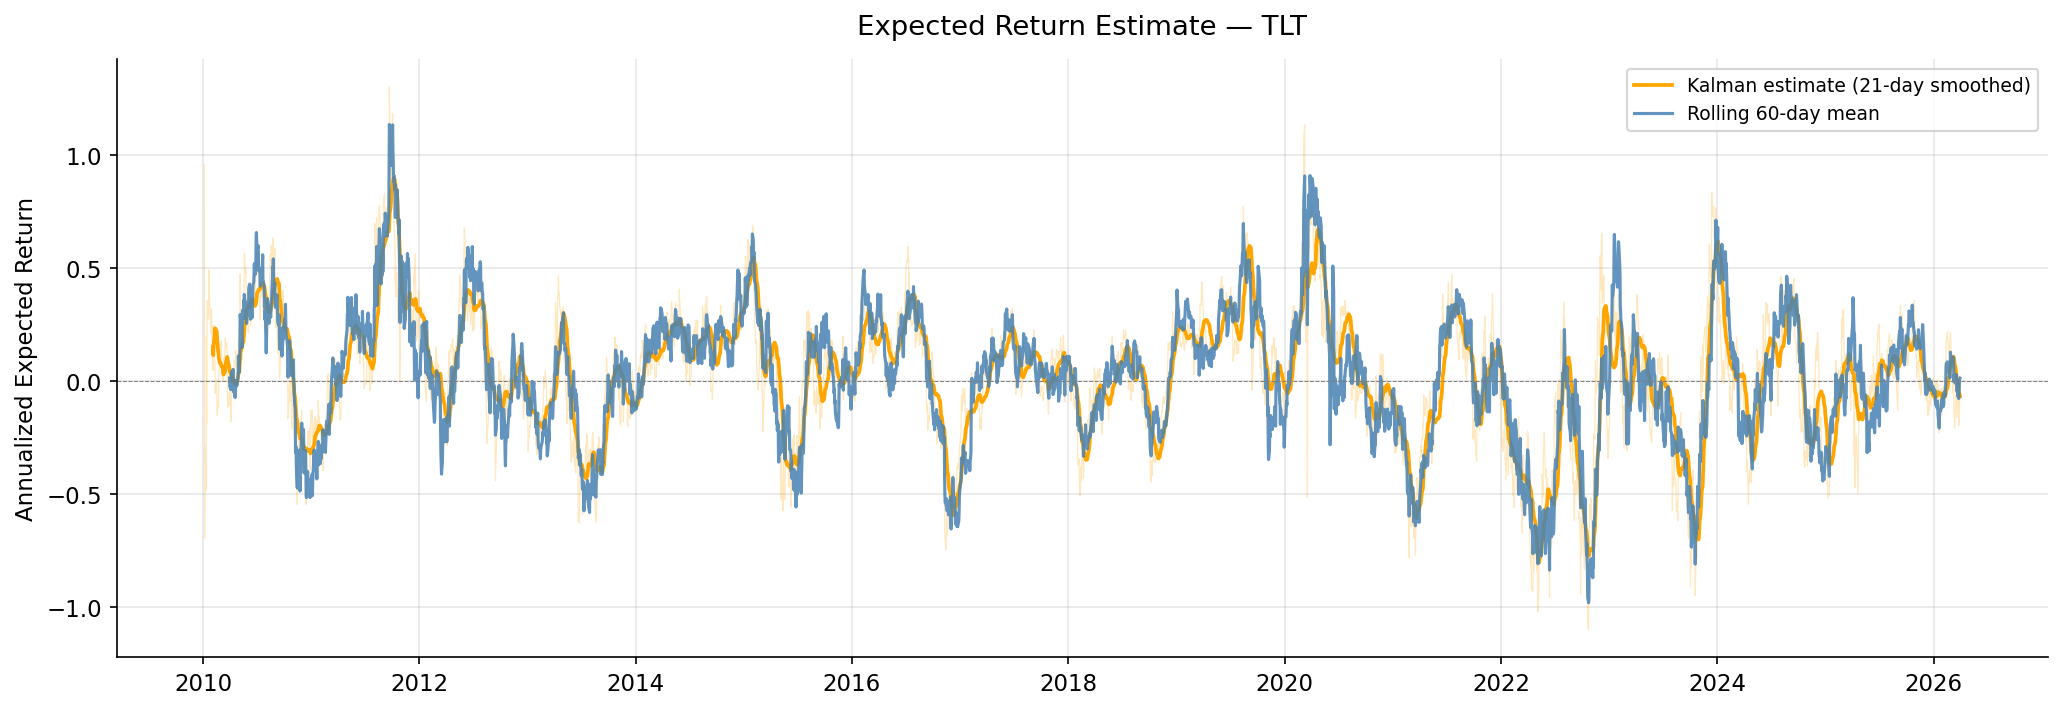
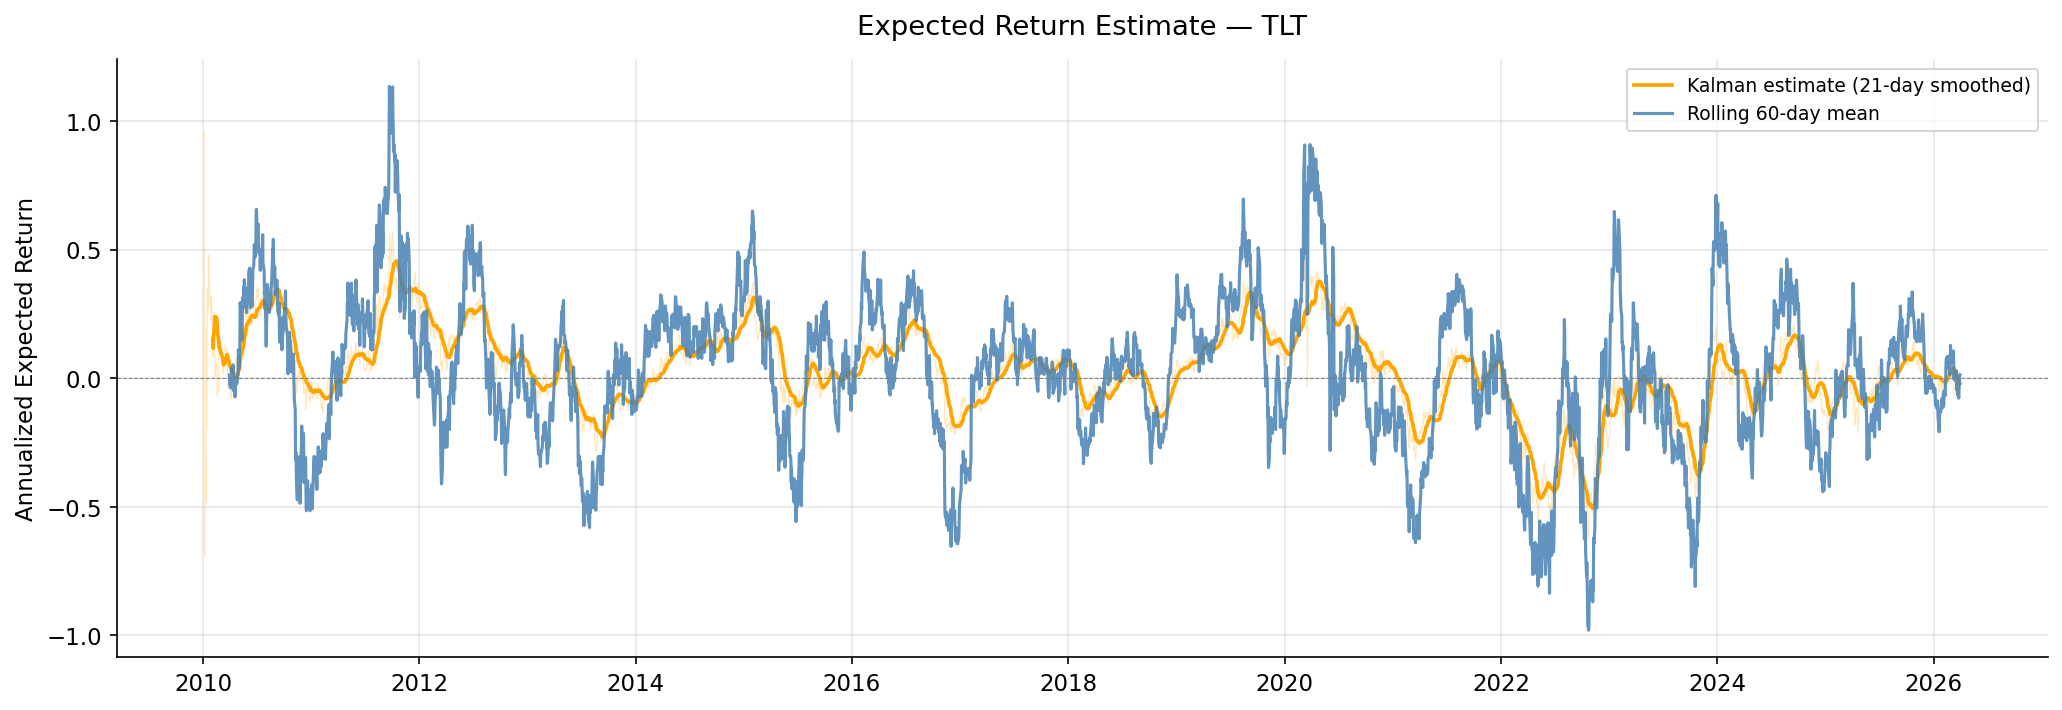
fix: consistent turnover_gamma and fresh strategy rebuild in OOS backtest loop

diff --git a/q_calibration.py b/q_calibration.py
@@ -1,67 +1,43 @@
 """
-q_calibration.py — Walk-forward cross-validation to select Q_SCALE.
+q_calibration.py — Walk-forward cross-validation to select Q_SCALE and regime alphas.
 
-Evaluates a grid of Q values using one-step-ahead forecast RMSE
-on the last 30% of the training period (walk-forward within training).
+UPDATED: validation now scores each candidate using the same mechanism as
+make_kalman_strategy — mu = rolling mean of RAW returns (constant w.r.t. Q),
+sigma = covariance of the FILTERED return series. Previously this scored
+candidates using the filtered mean fed directly to the optimizer against a
+static covariance matrix, which no longer matches production.
+
 No test data is ever touched.
-
-Reference: time-series cross-validation following Hyndman & Athanasopoulos (2018).
 """
 
 import numpy as np
 import pandas as pd
 import matplotlib.pyplot as plt
+from config import COV_WINDOW, RETURN_WINDOW
 
 
 # Grid of Q values to evaluate
 Q_GRID = [1e-8, 5e-8, 1e-7, 5e-7, 1e-6, 5e-6, 1e-5, 5e-5, 1e-4, 5e-4, 1e-3]
 
 
-def _run_kalman(Y: np.ndarray, q: float, R: np.ndarray, mu0: np.ndarray) -> np.ndarray:
-    """
-    Run forward Kalman filter and return one-step-ahead forecast errors.
-    F = H = I (local-level / random-walk model).
-    """
-    T, n = Y.shape
-    Q = q * np.eye(n)
-    P = R.copy()        # diffuse initialisation
-    mu = mu0.copy()
-    errors = np.zeros((T, n))
-
-    for t in range(T):
-        # Predict
-        mu_pred = mu
-        P_pred  = P + Q
-
-        # Innovation (one-step-ahead forecast error)
-        errors[t] = Y[t] - mu_pred
-
-        # Update
-        S = P_pred + R
-        K = P_pred @ np.linalg.solve(S.T, np.eye(n)).T
-        mu = mu_pred + K @ errors[t]
-        P  = (np.eye(n) - K) @ P_pred
-
-    return errors
-
-
 def select_q_cv(
     train_returns: pd.DataFrame,
     q_grid: list = Q_GRID,
     val_fraction: float = 0.30,
+    cov_window: int = COV_WINDOW,
+    ret_window: int = RETURN_WINDOW,
     verbose: bool = True,
 ) -> tuple:
     """
     Select Q_SCALE via walk-forward CV on training data.
-    Criterion: annualized Sharpe of Kalman MV portfolio on validation window.
-    Warmup: first 70% of training. Validation: last 30%.
-    No test data is ever touched.
+    Criterion: annualized Sharpe of Kalman MV portfolio on validation window,
+    using mu = rolling mean of raw returns, sigma = covariance of filtered returns
+    (matches make_kalman_strategy).
     """
     from optimizer import optimize_portfolio
 
     Y    = train_returns.values
     T, n = Y.shape
-    assets = train_returns.columns
 
     split  = int(T * (1 - val_fraction))
     Y_warm = Y[:split]
@@ -74,9 +50,10 @@ def select_q_cv(
     for q in q_grid:
         Q_mat = q * np.eye(n)
 
-        # Warmup pass
+        # Warmup pass — collect filtered history for the cov_window buffer
         P  = R.copy()
         mu = mu0.copy()
+        filtered_warm = np.zeros((len(Y_warm), n))
         for t in range(len(Y_warm)):
             mu_p = mu
             P_p  = P + Q_mat
@@ -84,20 +61,25 @@ def select_q_cv(
             K    = P_p @ np.linalg.solve(S.T, np.eye(n)).T
             mu   = mu_p + K @ (Y_warm[t] - mu_p)
             P    = (np.eye(n) - K) @ P_p
+            filtered_warm[t] = mu
 
-        # Validation pass: run filter + MV optimizer
+        # Validation pass
         mu_val = mu.copy()
         P_val  = P.copy()
+
+        raw_buffer  = list(Y_warm[-ret_window:])
+        filt_buffer = list(filtered_warm[-cov_window:])
 
         port_returns = []
         current_weights = np.ones(n) / n
         rebal_counter = 0
 
         for t in range(len(Y_val)):
-            # Rebalance monthly (~21 trading days)
-            if rebal_counter % 21 == 0:
+            if rebal_counter % 21 == 0 and len(filt_buffer) >= cov_window:
                 try:
-                    w = optimize_portfolio(mu_val, R)
+                    mu_t    = np.mean(raw_buffer[-ret_window:], axis=0)
+                    sigma_t = np.cov(np.array(filt_buffer[-cov_window:]).T) + np.eye(n) * 1e-8
+                    w = optimize_portfolio(mu_t, sigma_t)
                     if w is not None and not np.any(np.isnan(w)):
                         current_weights = w
                 except Exception:
@@ -114,6 +96,9 @@ def select_q_cv(
             K      = P_p @ np.linalg.solve(S.T, np.eye(n)).T
             mu_val = mu_p + K @ err
             P_val  = (np.eye(n) - K) @ P_p
+
+            raw_buffer.append(Y_val[t])
+            filt_buffer.append(mu_val.copy())
 
         r = np.array(port_returns)
         sharpe = (r.mean() * 252) / (r.std() * np.sqrt(252)) if r.std() > 0 else 0.0
@@ -146,24 +131,25 @@ def _run_regime_validation(
     R: np.ndarray,
     Q_base: np.ndarray,
     regime_alphas: dict,
+    cov_window: int = COV_WINDOW,
+    ret_window: int = RETURN_WINDOW,
 ) -> float:
     """
     Run one validation pass with a given set of regime alphas.
-    Returns annualized Sharpe on the validation window.
-    regime_alphas: dict mapping regime name -> alpha (e.g. {'LOW_VOL': 0.1, ...})
-    CRISIS always uses 1.0 (base Q).
+    mu = rolling mean of raw returns, sigma = covariance of filtered returns
+    (matches make_kalman_strategy). CRISIS always uses 1.0 (base Q).
     """
     from optimizer import optimize_portfolio
 
     n = Y_warm.shape[1]
 
-    # Build per-regime Q matrices
     Q_map = {regime: regime_alphas.get(regime, 1.0) * Q_base
              for regime in ["LOW_VOL", "MED_VOL", "HIGH_VOL", "CRISIS"]}
 
-    # Warmup pass — use base Q throughout (no switching during warmup)
+    # Warmup pass — base Q throughout, collect filtered history
     P = R.copy()
     mu = Y_warm.mean(axis=0)
+    filtered_warm = np.zeros((len(Y_warm), n))
     for t in range(len(Y_warm)):
         mu_p = mu
         P_p = P + Q_base
@@ -171,26 +157,28 @@ def _run_regime_validation(
         K = P_p @ np.linalg.solve(S.T, np.eye(n)).T
         mu = mu_p + K @ (Y_warm[t] - mu_p)
         P = (np.eye(n) - K) @ P_p
+        filtered_warm[t] = mu
 
     # Validation pass — regime-switching Q
     mu_val = mu.copy()
     P_val = P.copy()
+    raw_buffer  = list(Y_warm[-ret_window:])
+    filt_buffer = list(filtered_warm[-cov_window:])
     port_returns = []
     current_weights = np.ones(n) / n
     rebal_counter = 0
 
     for t in range(len(Y_val)):
         date_t = dates_val[t]
-
-        # Look up regime, default to MED_VOL if date not in labels
         regime_t = regime_labels.get(date_t, "MED_VOL") if hasattr(regime_labels, 'get') \
                    else (regime_labels.loc[date_t] if date_t in regime_labels.index else "MED_VOL")
         Q_t = Q_map.get(regime_t, Q_base)
 
-        # Monthly rebalance
-        if rebal_counter % 21 == 0:
+        if rebal_counter % 21 == 0 and len(filt_buffer) >= cov_window:
             try:
-                w = optimize_portfolio(mu_val, R)
+                mu_t    = np.mean(raw_buffer[-ret_window:], axis=0)
+                sigma_t = np.cov(np.array(filt_buffer[-cov_window:]).T) + np.eye(n) * 1e-8
+                w = optimize_portfolio(mu_t, sigma_t)
                 if w is not None and not np.any(np.isnan(w)):
                     current_weights = w
             except Exception:
@@ -208,6 +196,9 @@ def _run_regime_validation(
         mu_val = mu_p + K @ err
         P_val = (np.eye(n) - K) @ P_p
 
+        raw_buffer.append(Y_val[t])
+        filt_buffer.append(mu_val.copy())
+
     r = np.array(port_returns)
     return (r.mean() * 252) / (r.std() * np.sqrt(252)) if r.std() > 0 else 0.0
 
@@ -223,17 +214,8 @@ def calibrate_regime_alphas(
     """
     Calibrate per-regime Q attenuation factors for LOW_VOL, MED_VOL, HIGH_VOL.
     CRISIS is always fixed at base Q (alpha = 1.0) — too few days to calibrate.
-
-    Strategy: sequential greedy search.
-      1. Start with all alphas = 1.0 (base Q everywhere).
-      2. For each regime in [LOW_VOL, MED_VOL, HIGH_VOL]:
-           Grid search alpha for this regime, holding others fixed at current best.
-           Keep whichever alpha maximises validation Sharpe.
-
-    Returns
-    -------
-    best_alphas : dict  e.g. {'LOW_VOL': 0.2, 'MED_VOL': 1.0, 'HIGH_VOL': 0.05, 'CRISIS': 1.0}
-    all_results : dict of DataFrames, one per regime
+    Greedy sequential search, same as before; scoring mechanism updated to
+    match make_kalman_strategy (see _run_regime_validation).
     """
     Y = train_returns.values
     T, n = Y.shape
@@ -246,7 +228,6 @@ def calibrate_regime_alphas(
     R = np.cov(Y.T) + np.eye(n) * 1e-6
     Q_base = q_best * np.eye(n)
 
-    # Start: all regimes at base Q
     current_alphas = {r: 1.0 for r in ["LOW_VOL", "MED_VOL", "HIGH_VOL", "CRISIS"]}
     all_results = {}
 

diff --git a/benchmarks.py b/benchmarks.py
@@ -74,9 +74,10 @@ def make_kalman_strategy(
     train_returns: pd.DataFrame,
     q_scale: float = Q_SCALE,
     cov_window: int = COV_WINDOW,
+    ret_window: int = RETURN_WINDOW,
     regime_labels: pd.Series = None,
     regime_alphas: dict = None,
-    turnover_gamma: float = 0.0,       # add this
+    turnover_gamma: float = 0.0,
 ):
     n_assets = train_returns.shape[1]
     R = train_returns.cov().values
@@ -84,7 +85,9 @@ def make_kalman_strategy(
     mu_0 = train_returns.mean().values
     kf.initialize(mu_0=mu_0)
     last_processed_idx = 0
-    w_prev = [None]                    # add this
+    w_prev = [None]
+    filtered_history = []   # running record of kf.mu_hat, one row per day
+    filtered_index = []
 
     def strategy(date, returns_so_far):
         nonlocal last_processed_idx
@@ -105,22 +108,33 @@ def make_kalman_strategy(
             kf.predict(q_override=q_override)
             kf.update(r_t)
 
+            filtered_history.append(kf.mu_hat.copy())
+            filtered_index.append(date_i)
+
         last_processed_idx = current_len
-        mu_kf = kf.mu_hat.copy()
 
         if current_len < cov_window:
             n = returns_so_far.shape[1]
             w_prev[0] = np.ones(n) / n
             return w_prev[0]
 
-        recent = returns_so_far.iloc[-cov_window:]
-        sigma = recent.cov().values
+        # Return estimate: same 60-day rolling mean of raw returns as Rolling MV
+        mu = returns_so_far.iloc[-ret_window:].mean().values
 
-        w = optimize_portfolio(mu_kf, sigma, w_prev=w_prev[0], turnover_gamma=turnover_gamma)
-        w_prev[0] = w.copy()           # add this
+        # Covariance estimate: built from the Kalman-filtered return series
+        filtered_recent = pd.DataFrame(
+            filtered_history[-cov_window:],
+            index=filtered_index[-cov_window:],
+            columns=returns_so_far.columns,
+        )
+        sigma = filtered_recent.cov().values
+
+        w = optimize_portfolio(mu, sigma, w_prev=w_prev[0], turnover_gamma=turnover_gamma)
+        w_prev[0] = w.copy()
         return w
 
     return strategy
+
 
 from sklearn.covariance import LedoitWolf
 

diff --git a/main.py b/main.py
@@ -115,7 +115,11 @@ def main():
     # Test period only (out-of-sample)
     results_test = []
     for name, strat_func in strategies:
-        if name == "Static MV":
+        if name == "Rolling MV":
+            strat_func = make_rolling_mv_strategy(turnover_gamma=turnover_gamma)
+        elif name == "Ledoit-Wolf MV":
+            strat_func = make_ledoit_wolf_strategy(turnover_gamma=turnover_gamma)
+        elif name == "Static MV":
             strat_func = make_static_mv_strategy(train)
         elif name == "Kalman MV":
             strat_func = make_kalman_strategy(
@@ -123,6 +127,7 @@ def main():
                 q_scale=q_best,
                 regime_labels=regime_labels,
                 regime_alphas=regime_alphas,
+                turnover_gamma=turnover_gamma,
             )
             # Warm up filter on training data before test period
             for i in range(len(train)):
